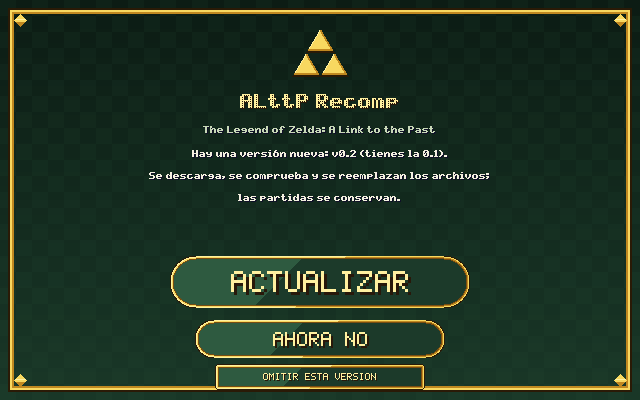
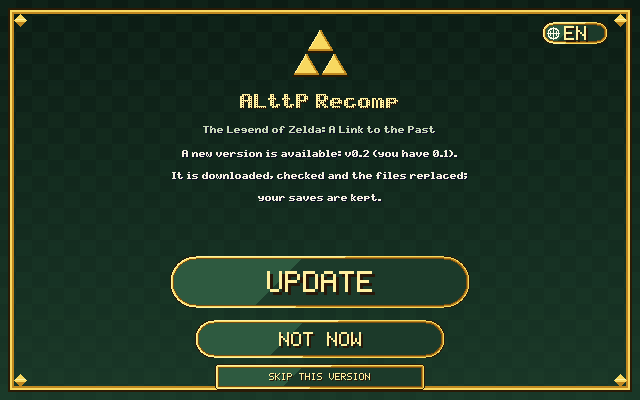
README: launcher screenshots in English and Spanish
The ones in the English README and the Spanish one come from the new Linux launcher, which already has the language button.

diff --git a/README.es.md b/README.es.md
@@ -30,11 +30,11 @@ Descarga el paquete de tu sistema de la [última release](https://github.com/Ale
 | **Requisitos** | Windows 10 o 11 | x86_64, glibc 2.38+ (Ubuntu 24.04, Debian 13…) | Android 10+ (arm64) |
 
 <p align="center">
-  <img src="docs/img/launcher.png" alt="El lanzador" width="31%">
-  <img src="docs/img/launcher-pick.png" alt="Elegir la ROM" width="31%">
-  <img src="docs/img/launcher-update.png" alt="Aviso de versión nueva" width="31%">
+  <img src="docs/img/launcher-es.png" alt="El lanzador" width="31%">
+  <img src="docs/img/launcher-pick-es.png" alt="Elegir la ROM" width="31%">
+  <img src="docs/img/launcher-update-es.png" alt="Aviso de versión nueva" width="31%">
 </p>
-<p align="center"><sub>El lanzador de Windows y Linux: elige tu ROM una vez y después solo pulsas <b>Jugar</b>. A la derecha, el aviso opcional de versión nueva.</sub></p>
+<p align="center"><sub>El lanzador de Windows y Linux: elige tu ROM una vez y después solo pulsas <b>Jugar</b>. A la derecha, el aviso opcional de versión nueva. El globo de arriba a la derecha cambia el idioma (en Linux; en Windows sigue el del sistema).</sub></p>
 
 La ROM se queda donde está: solo se recuerda su ruta, y en Android se copia a la carpeta privada de la app. La primera vez el juego se prepara en tu equipo (en Linux y Android, unos segundos); si algo falla, la ventana lo cuenta.
 

diff --git a/README.md b/README.md
@@ -34,7 +34,7 @@ Download the package for your system from the [latest release](https://github.co
   <img src="docs/img/launcher-pick.png" alt="Choosing the ROM" width="31%">
   <img src="docs/img/launcher-update.png" alt="New version notice" width="31%">
 </p>
-<p align="center"><sub>The Windows and Linux launcher: pick your ROM once, then just press <b>Play</b>. On the right, the optional new-version notice. (The launcher is currently shown in Spanish in these screenshots.)</sub></p>
+<p align="center"><sub>The Windows and Linux launcher: pick your ROM once, then just press <b>Play</b>. On the right, the optional new-version notice. The globe at the top right switches the language (on Linux; on Windows it follows the system language).</sub></p>
 
 The ROM stays where it is: only its path is remembered, and on Android it is copied to the app's private folder. The first time, the game is prepared on your machine (a few seconds on Linux and Android); if something fails, the window tells you.
 
